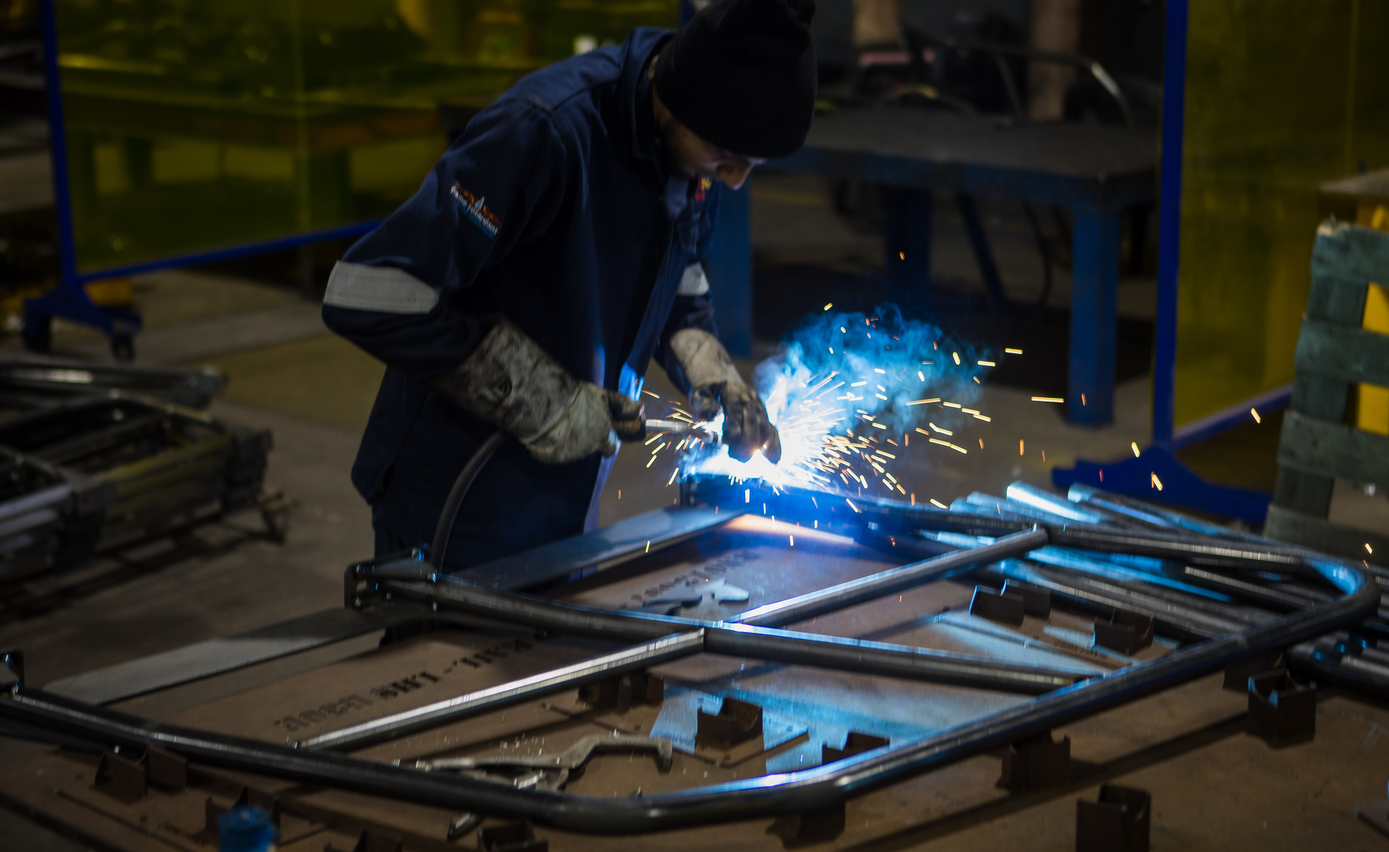
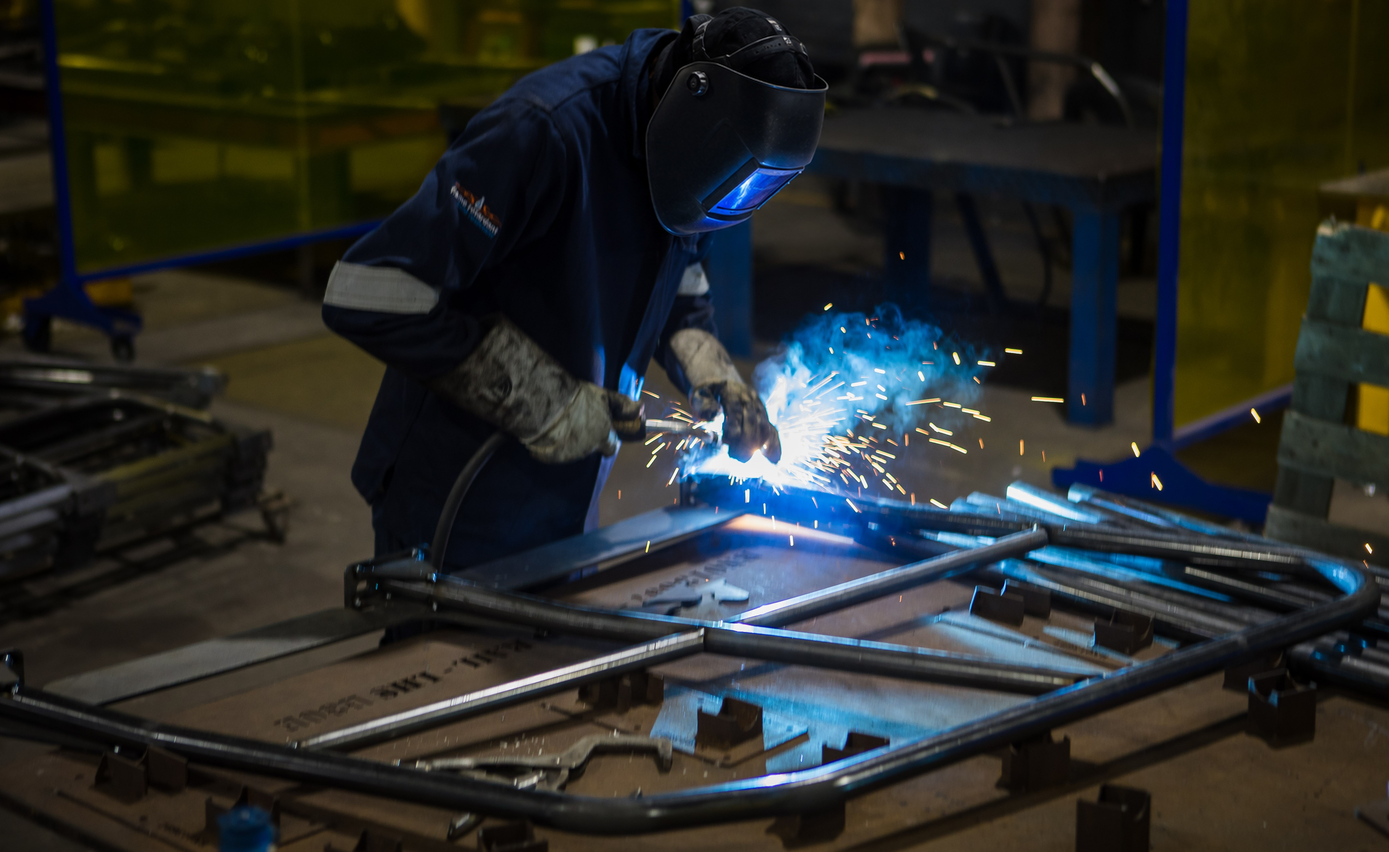
Push index.html and hero image updates

Changed region(s): [[0.4686, 0.0936, 0.5935, 0.2808], [0.4998, 0.0, 0.5935, 0.0624], [0.4686, 0.0624, 0.5311, 0.0936]]

diff --git a/index.html b/index.html
@@ -375,7 +375,7 @@
 <section class="hero" aria-label="Hero">
   <div class="hero-bg">
     <img
-      src="assets/images/welding-2.jpg"
+      src="assets/images/welding-2.jpg?v=2"
       alt="Precision sheet metal fabrication at Pinion and Adams Fabricators, Durban"
       fetchpriority="high"
     >
